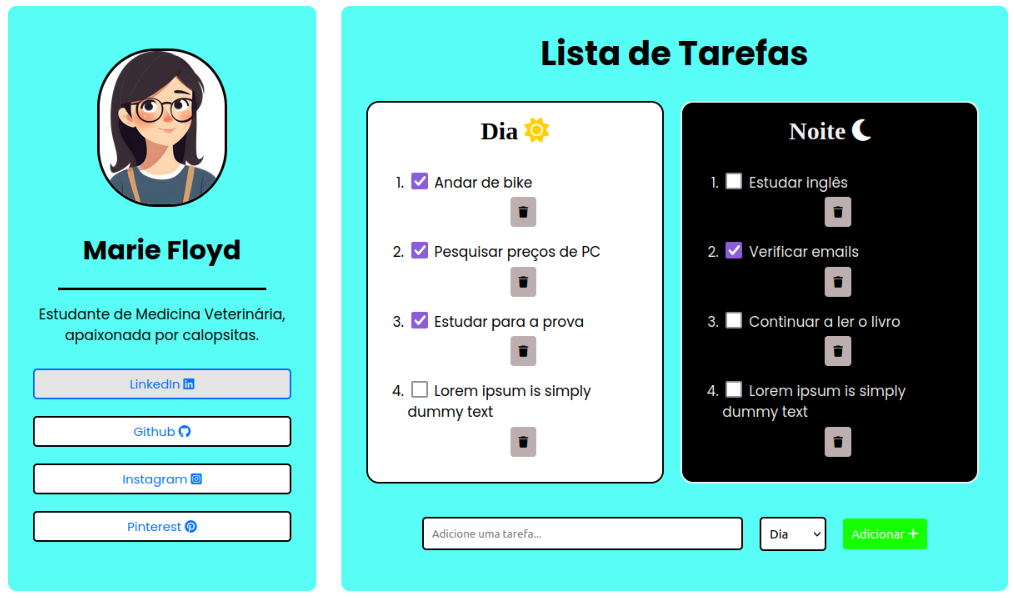
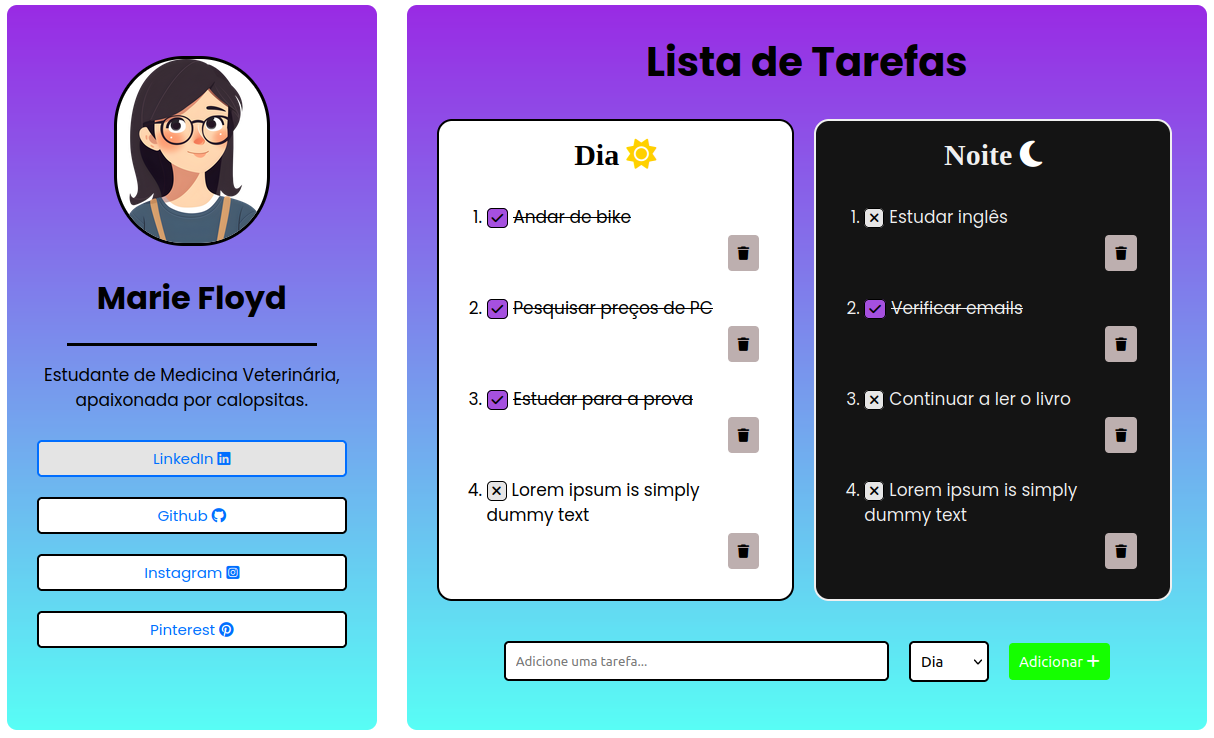
Feat: Deploying with most recent features added

diff --git a/src/js/crud.js b/src/js/crud.js
@@ -1,13 +1,13 @@
 let dummyTasks = 
 [
-	{name: 'Andar de bike', period: 'Dia'},
-	{name: 'Pesquisar preços de PC', period: 'Dia'},
-	{name: 'Estudar para a prova', period: 'Dia'},
-	{name: 'Lorem ipsum is simply dummy text', period: 'Dia'},
-	{name: 'Estudar inglês', period: 'Noite'},
-	{name: 'Verificar emails', period: 'Noite'},
-	{name: 'Continuar a ler o livro', period: 'Noite'},
-	{name: 'Lorem ipsum is simply dummy text', period: 'Noite'}
+	{name: 'Andar de bike', period: 'Dia', status: true},
+	{name: 'Pesquisar preços de PC', period: 'Dia', status: true},
+	{name: 'Estudar para a prova', period: 'Dia', status: true},
+	{name: 'Lorem ipsum is simply dummy text', period: 'Dia', status: false},
+	{name: 'Estudar inglês', period: 'Noite', status: false},
+	{name: 'Verificar emails', period: 'Noite', status: true},
+	{name: 'Continuar a ler o livro', period: 'Noite', status: false},
+	{name: 'Lorem ipsum is simply dummy text', period: 'Noite', status: false}
 ];
 
 let tasks = dummyTasks;
@@ -53,11 +53,70 @@ function loadData()
 			period = 'night';
 		}
 
-		writeTask(period, table, task.name);
+		writeTask(period, table, task.name, task.status);
 	});
 }
 
-function writeTask(period, category, taskName)
+function hasParentWithClass(childElement, className) 
+{
+	let currentElement = childElement;
+
+	// Looking for a parent with a given class name
+	while (currentElement && currentElement !== document.body) 
+	{
+		if (currentElement.classList.contains(className)) 
+			return currentElement.className;
+
+		currentElement = currentElement.parentNode;
+	}
+
+	// If no parent with the specified class is found
+	return false;
+}
+
+function markTask(event)
+{
+	let status = String();
+	let checkButton = event.target;
+	let parentDiv = checkButton.closest('.open, .done');
+
+	if (parentDiv.className == 'done')
+	{
+		status = false;
+		parentDiv.className = 'open';
+		parentDiv.innerHTML = '<i class="fa-solid fa-xmark"></i>';
+		parentDiv.parentElement.querySelector('span').className = 'unfin';
+	}
+	else
+	{
+		status = true;
+		parentDiv.className = 'done';
+		parentDiv.innerHTML = '<i class="fa-solid fa-check"></i>';
+		parentDiv.parentElement.querySelector('span').className = 'concluded';
+	}
+
+	let period = String();
+	let taskName = parentDiv.parentElement.querySelector('span').innerText;
+
+	let whichPeriod = hasParentWithClass(parentDiv, 'day-tasks');
+	if (!whichPeriod)
+		whichPeriod = hasParentWithClass(parentDiv, 'night-tasks');
+
+	if (String(whichPeriod).includes('day'))
+		period = 'Dia';
+	else
+		period = 'Noite';
+
+	// Updates task status on localStorage 
+	tasks.forEach(task => 
+	{
+		if (task.name === taskName.trim() && task.period === period)
+			task.status = status;
+	});
+	updateLocalStorage();
+}
+
+function writeTask(period, category, taskName, status=false)
 {
 	// Only one table has 'day-tasks' or 'night-tasks' as its class name,
 	// hence the first element (index = 0) has the desired HTML
@@ -67,18 +126,33 @@ function writeTask(period, category, taskName)
 	// Creates a new <li> element
 	let newListItem = document.createElement('li');
 
+	// Creates a new <span> element that contais the task name
 	let newSpan = document.createElement('span');
 	newSpan.textContent = taskName;
 
-	let checkbox = document.createElement('input');
-	checkbox.type = 'checkbox';
-	checkbox.id = 'done';
-	checkbox.name = 'done';
+	// Creates the checkbox button that marks the task status
+	let checkbox = document.createElement('button');
+	if (status)
+	{
+		newSpan.classList.add('concluded');
+		checkbox.classList.add('done');
+		checkbox.innerHTML = '<i class="fa-solid fa-check"></i>';
+	}	
+	else
+	{
+		newSpan.classList.add('unfin');
+		checkbox.classList.add('open');
+		checkbox.innerHTML = '<i class="fa-solid fa-xmark"></i>';
+	}
+	checkbox.onclick = function(event) {
+		markTask(event);
+	};
 
 	// Create a new <div> for buttons
 	let newButtonDiv = document.createElement('div');
 	newButtonDiv.classList.add('button-cont');
 
+	// TODO: Include edit button later
 	let deleteButton = document.createElement('button');
 	deleteButton.classList.add(`delete-${period}`);
 	deleteButton.innerHTML = '<i class="fa-solid fa-trash"></i>';
@@ -131,6 +205,7 @@ function addTask()
 		setOperationStatus(taskInput, 'Tarefa adicionada com sucesso!', 'success');
 
 		// Adds the task to local storage
+		task.status = false;
 		tasks.push(task);
 		updateLocalStorage();
 	}

diff --git a/index.html b/index.html
@@ -35,10 +35,10 @@
 			<div class="navigation-menu">
 				<!-- Bullet points list -->
 				<ul>
-					<li><a href=”#”>LinkedIn <i class="fa-brands fa-linkedin"></i></a></li>
-					<li><a href=”#”>Github <i class="fa-brands fa-github"></i></a></li>
-					<li><a href=”#”>Instagram <i class="fa-brands fa-square-instagram"></i></a></li>
-					<li><a href=”#”>Pinterest <i class="fa-brands fa-pinterest"></i></a></li>
+					<li><a href=”https://br.linkedin.com/”>LinkedIn <i class="fa-brands fa-linkedin"></i></a></li>
+					<li><a href=”https://github.com/”>Github <i class="fa-brands fa-github"></i></a></li>
+					<li><a href=”https://www.instagram.com/”>Instagram <i class="fa-brands fa-square-instagram"></i></a></li>
+					<li><a href=”https://br.pinterest.com/”>Pinterest <i class="fa-brands fa-pinterest"></i></a></li>
 				</ul>
 			</div>    
 		</div>

diff --git a/src/style/buttons.css b/src/style/buttons.css
@@ -1,6 +1,6 @@
 .button-cont
 {
-    justify-content: center;
+    justify-content: end;
     display: flex;
 }
 
@@ -37,6 +37,36 @@
     background-color: #0fac01;
 }
 
+.open
+{
+    background-color: #e6e5e5;
+}
+
+.done
+{
+    background-color: #a550df;
+}
+
+.open:hover
+{
+    background-color: #a550df;
+}
+
+.done:hover
+{
+    background-color: #e6e5e5;
+
+}
+
+.open,
+.done
+{
+    transition: 0.5s;
+    cursor: crosshair;
+    border-radius: 5px;
+    border: solid 1px #000000;
+}
+
 /* .edit-day,
 .edit-night
 {
@@ -52,6 +82,7 @@
 .delete-day,
 .delete-night
 {
+    transition: 0.5s;
     background-color: #bdafaf;
 }
 

diff --git a/src/style/tasks_tables.css b/src/style/tasks_tables.css
@@ -2,7 +2,7 @@
 {
     margin-left: 30px;
     width: 850px;
-    background-color: #58fdf5;
+    background: linear-gradient(0deg, #58fdf5, #992ae4 100%);
     border-radius: 10px;
 }
 
@@ -45,7 +45,7 @@ th
 .day-tasks li,
 .night-tasks li
 {
-    margin-top: 10px;
+    margin-top: 20px;
 }
 
 .day-tasks
@@ -57,7 +57,7 @@ th
 
 .night-tasks
 {
-    background-color: #000000;
+    background-color: #141414;
     color: #f0f0f0;
     border: solid 2px #f0f0f0;
 }
@@ -70,4 +70,9 @@ ol
 span
 {
     padding: 5px;
+}
+
+.concluded
+{
+    text-decoration: line-through;
 }

diff --git a/src/style/responsiveness.css b/src/style/responsiveness.css
@@ -1,5 +1,5 @@
-@media screen and (max-width: 900px){
-
+@media screen and (max-width: 1100px)
+{
     main 
     {
         flex-direction: column;
@@ -26,14 +26,17 @@
         flex-direction: row;
     }
 
-    .task-table
-    {
-        flex-direction: column;
-    }
-
     .day-tasks,
     .night-tasks
     {
         margin: 15px 15px 0px 0px;
+    }
+}
+
+@media screen and (max-width: 800px)
+{
+    .task-table
+    {
+        flex-direction: column;
     }
 }

diff --git a/src/style/profile.css b/src/style/profile.css
@@ -1,7 +1,7 @@
 .profile-menu
 {
     padding: 20px;
-    background-color: #58fdf5;
+    background: linear-gradient(0deg, #58fdf5, #992ae4 100%);
     text-align: center;
     height: auto;
     width: 350px; 
@@ -39,6 +39,7 @@ figure
 
 .navigation-menu a
 {
+    transition: 0.5s;
     display: block;
     padding: 5px;
     font-size: 15px;

diff --git a/src/style/inputs.css b/src/style/inputs.css
@@ -6,13 +6,6 @@
     justify-content: center;
 }
 
-input[type='checkbox']
-{
-    cursor: crosshair;
-    width: 20px;
-    height: 20px;
-}
-
 input[type="text"]
 {
     padding: 10px;
@@ -94,7 +87,7 @@ small
 
 .form-control.success small 
 {
-    color: #00ff22;
+    color: #008b2a;
     visibility: visible;
 }
 
